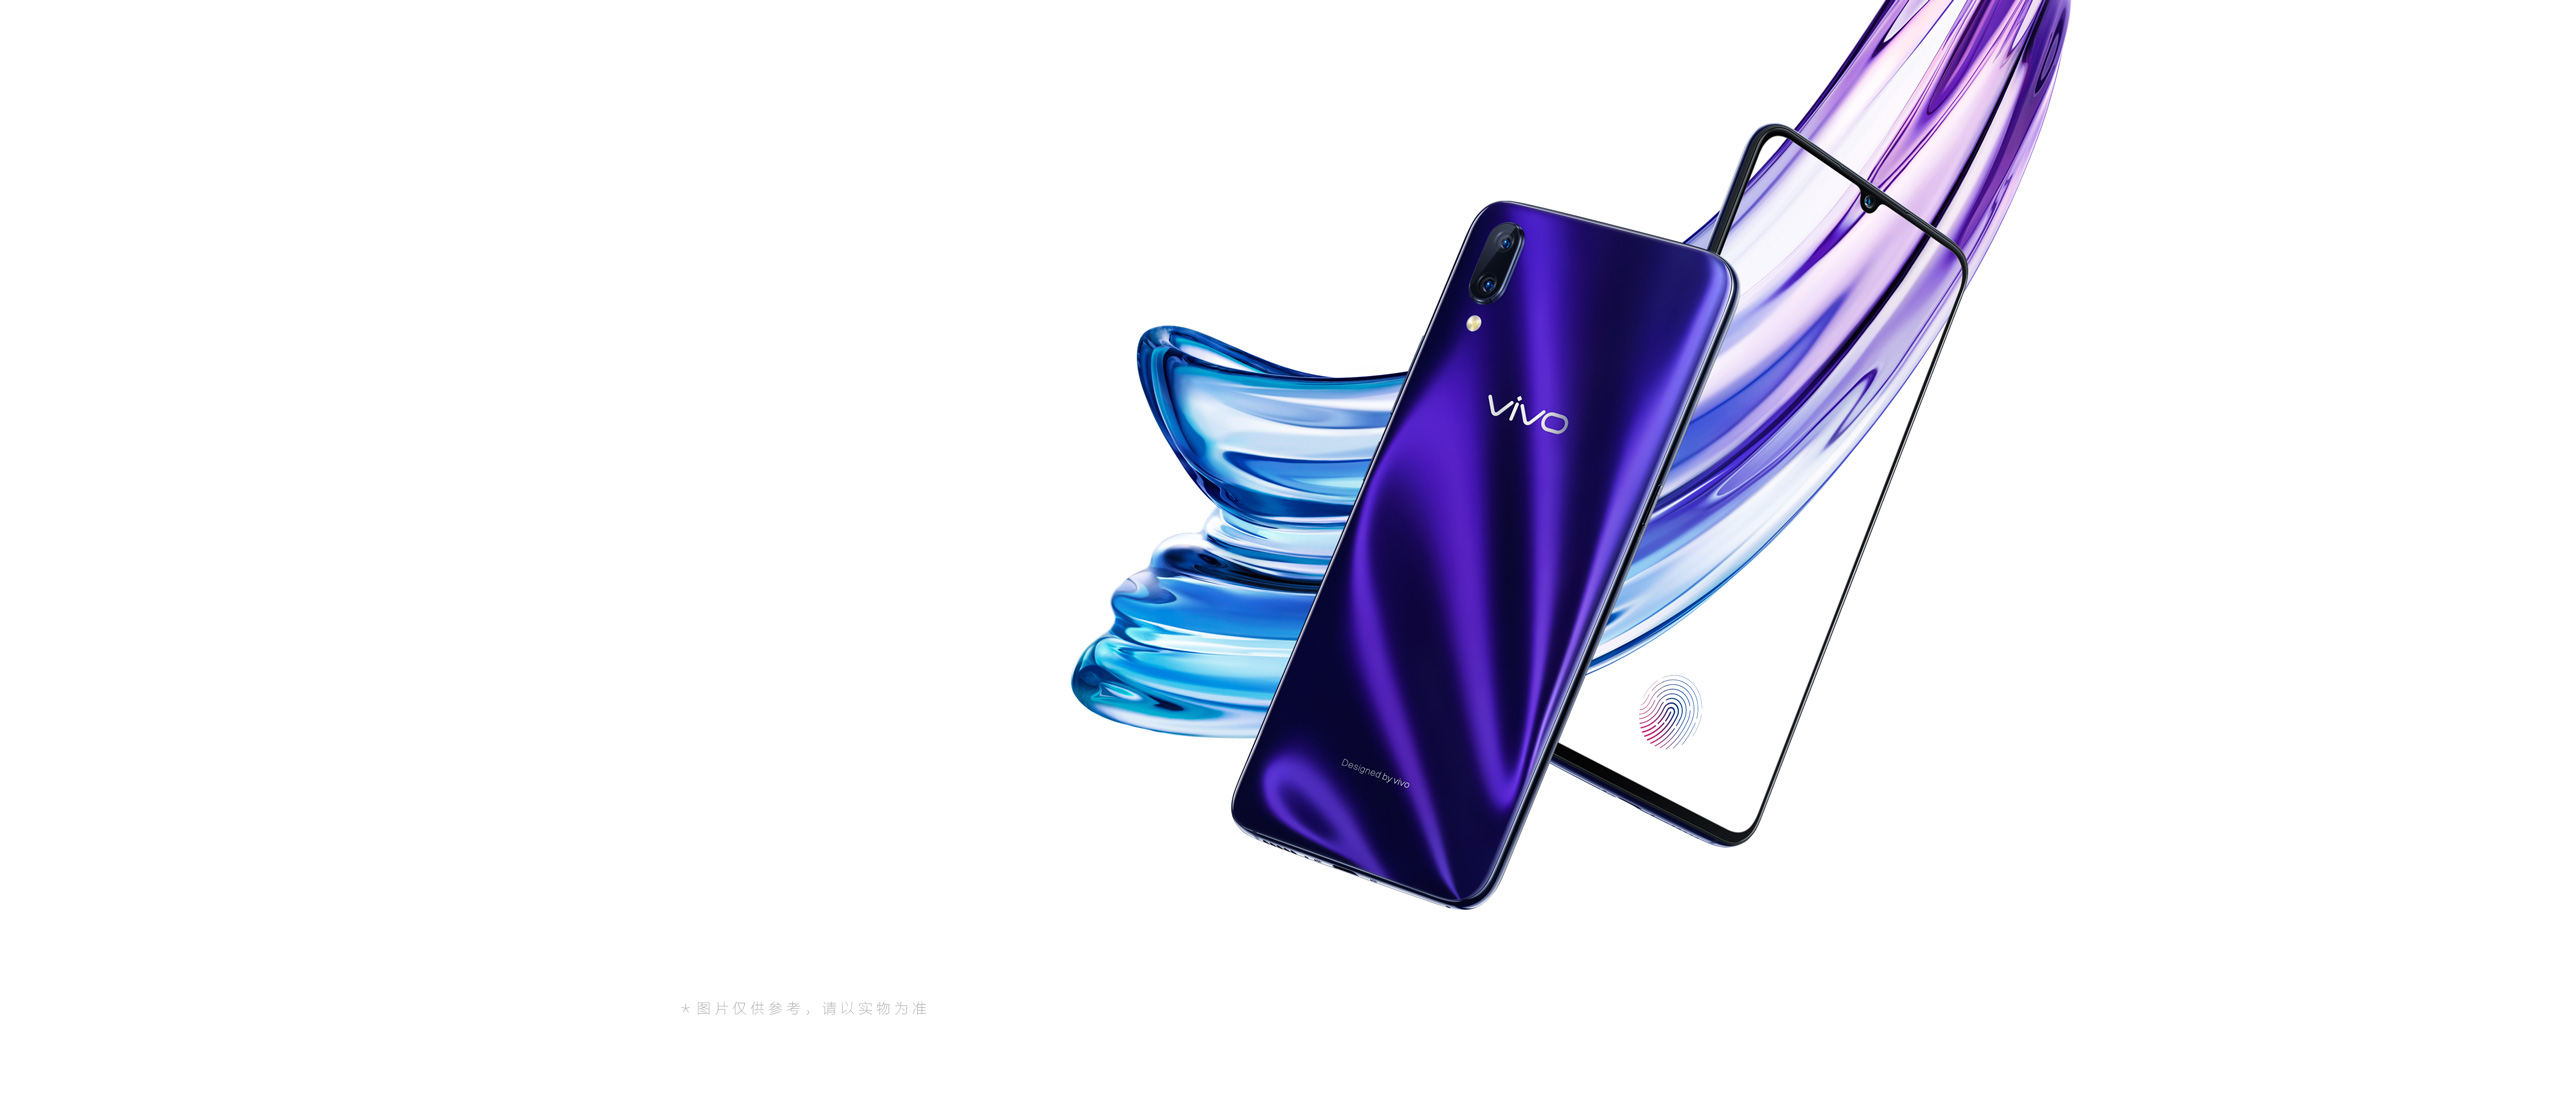
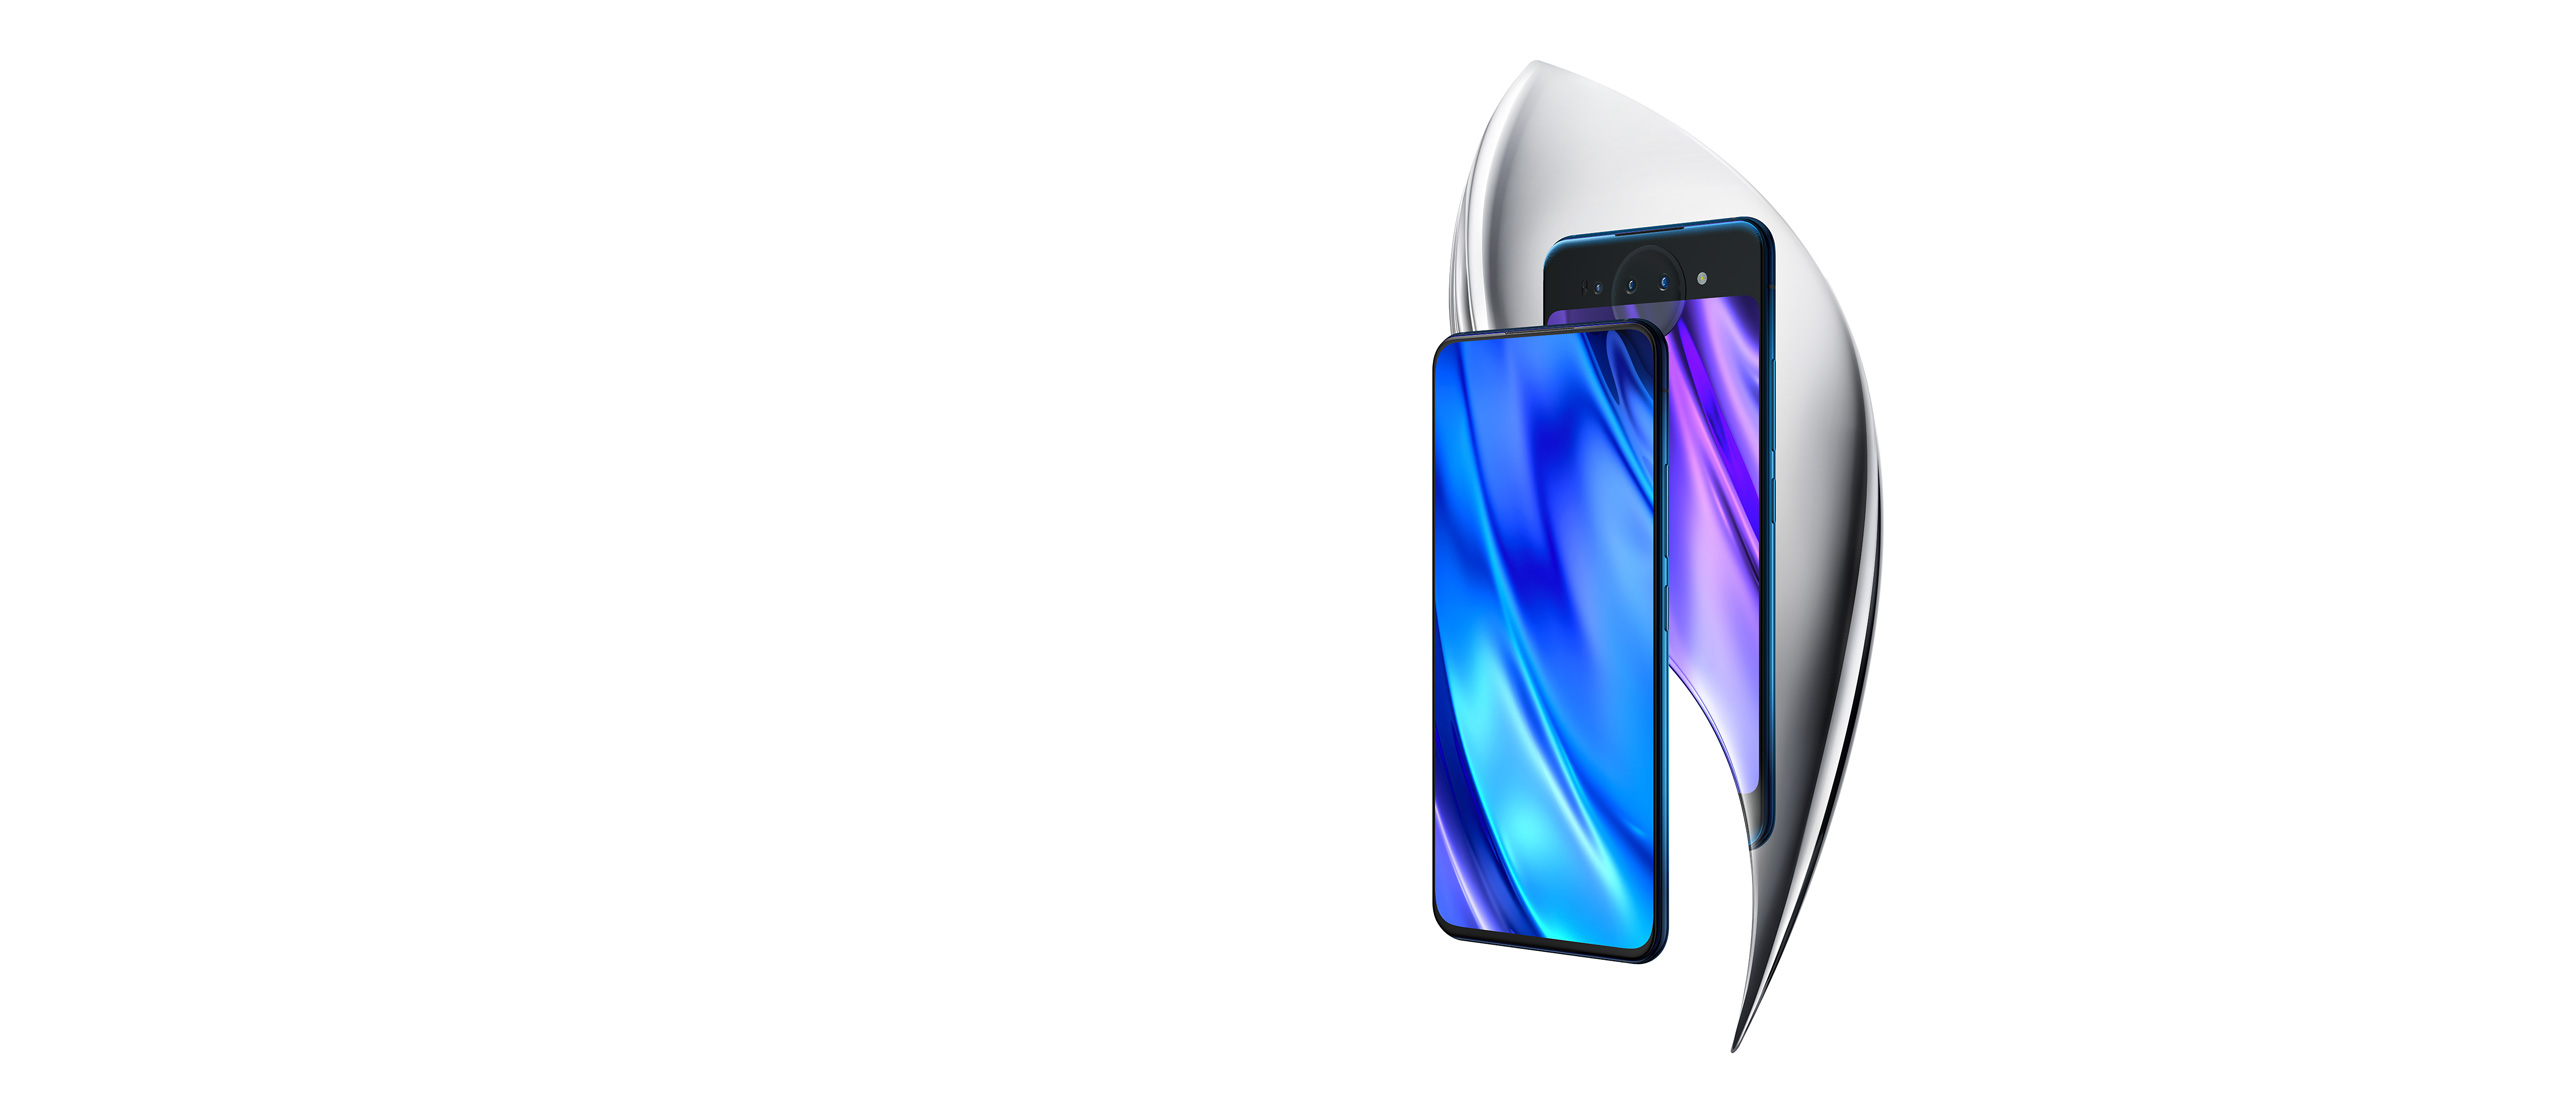
完成轮播所有特效

Changed region(s): [[0.4062, 0.0, 0.8125, 0.9582], [0.2812, 0.8964, 0.3125, 0.9273]]

diff --git a/app/static/js/home.js b/app/static/js/home.js
@@ -1,5 +1,4 @@
 var nex_active = function () {
-    return function () {
         var verTimeout = setTimeout(function () {
             $('.ver_nex').animate({'top':0,'opacity':1})
         },1200);
@@ -15,20 +14,16 @@ var nex_active = function () {
         var right_phone = setTimeout(function () {
             $('.phone_right').animate({'bottom':0,'opacity':1},'slow')
         },300)
-    }
 }
-nex_active()();
+nex_active();
 var nex_reset = function(){
-    return function () {
         $('.ver_nex').css({'top':-10,'opacity':0});
         $('.ai_nex').css({'top':40,'opacity':0});
         $('.cpu_nex').css({'top':90,'opacity':0});
         $('.phone_left').css({'top':-80,'opacity':0});
         $('.phone_right').css({'bottom':-80,'opacity':0});
-    }
 }
 var z3_active = function () {
-    return function () {
         var verTimeout = setTimeout(function () {
             $('.z3').animate({'top':0,'opacity':1})
         },1200);
@@ -38,15 +33,45 @@ var z3_active = function () {
         var cpuTimeout = setTimeout(function () {
             $('.cpu_z3').animate({'top':100,'opacity':1})
         },800);
-    }
 }
 var z3_reset = function(){
-    return function () {
         $('.z3').css({'top':-10,'opacity':0});
         $('.performance').css({'top':40,'opacity':0});
         $('.cpu_z3').css({'top':90,'opacity':0});
-    }
 }
+var x23_active = function () {
+    var verTimeout = setTimeout(function () {
+        $('.x23_adver').animate({'top':0,'opacity':1})
+    },1200);
+    var aiTimeout = setTimeout(function () {
+        $('.x23').animate({'top':50,'opacity':1})
+    },1000);
+    var cpuTimeout = setTimeout(function () {
+        $('.x23_special').animate({'top':100,'opacity':1})
+    },800);
+}
+var x23_reset = function(){
+    $('.x23_adver').css({'top':-10,'opacity':0});
+    $('.x23').css({'top':40,'opacity':0});
+    $('.x23_special').css({'top':90,'opacity':0});
+}
+var dbnex_active = function () {
+    var verTimeout = setTimeout(function () {
+        $('.nex_BIG_LOGO').animate({'top':0,'opacity':1})
+    },1200);
+    var aiTimeout = setTimeout(function () {
+        $('.dobule_screen').animate({'top':50,'opacity':1})
+    },1000);
+    var cpuTimeout = setTimeout(function () {
+        $('.db_specila').animate({'top':100,'opacity':1})
+    },800);
+}
+var dbnex_reset = function(){
+    $('.nex_BIG_LOGO').css({'top':-10,'opacity':0});
+    $('.dobule_screen').css({'top':57,'opacity':0});
+    $('.db_specila').css({'top':90,'opacity':0});
+}
+
 
 $(function () {
     var which = 0;
@@ -61,17 +86,25 @@ $(function () {
         $('.banner .btn_list li').eq(which).addClass('choose');
         $('.img_list').eq(which).animate({'opacity':1,'z-index':9});
         if (which == 0){
-            nex_active()();
-            z3_reset()();
+            nex_active();
+            z3_reset();
+            x23_reset();
+            dbnex_reset();
         }else if (which == 1){
-            z3_active()();
-            nex_reset()();
+            z3_active();
+            nex_reset();
+            x23_reset();
+            dbnex_reset();
         }else if (which == 2){
-            nex_reset()();
-            z3_reset()();
+            x23_active();
+            nex_reset();
+            z3_reset();
+            dbnex_reset();
         }else if (which == 3){
-            nex_reset()();
-            z3_reset()();
+            dbnex_active();
+            nex_reset();
+            z3_reset();
+            x23_reset();
         }
     }
     function autoPlay() {
@@ -85,5 +118,5 @@ $(function () {
     }
     var start = setInterval(function () {
         autoPlay();
-    },5000)
+    },4000)
 }())

diff --git a/app/static/css/home.css b/app/static/css/home.css
@@ -94,14 +94,14 @@
     bottom: -80px;
     opacity: 0;
 }
-
 /*--------------------Z3--------------------*/
 .z3_property{
     position: absolute;
-    width: 232px;
-    height: 150px;
+    width: 280px;
+    height: 200px;
     top: 200px;
     right: 360px;
+    overflow: hidden;
 }
 .z3{
     width: 278px;
@@ -129,6 +129,81 @@
     background-size: cover;
     position: absolute;
     top: 90px;
+    opacity: 0;
+}
+/*--------------------x23--------------------*/
+.x23_property{
+    position: absolute;
+    width: 280px;
+    height: 200px;
+    overflow: hidden;
+    top: 246px;
+    right: 114px;
+}
+.x23_adver{
+    width: 278px;
+    height: 44px;
+    background: url("../img/index/adver_big.png") center no-repeat;
+    background-size: cover;
+    position: absolute;
+    top: -10px;
+    opacity: 1;
+}
+.x23{
+    width: 316px;
+    height: 46px;
+    background: url("../img/index/x23_big.png") center no-repeat;
+    background-size: cover;
+    position: absolute;
+    top: 40px;
+    left: -13px;
+    opacity: 1;
+}
+.x23_special{
+    width: 282px;
+    height: 32px;
+    background: url("../img/index/special_big.png") center no-repeat;
+    background-size: cover;
+    position: absolute;
+    top: 90px;
+    opacity: 1;
+}
+/*--------------------dobule_nex--------------------*/
+.dobule_nex{
+    position: absolute;
+    width: 280px;
+    height: 200px;
+    overflow: hidden;
+    top: 266px;
+    left: 200px;
+}
+.nex_BIG_LOGO{
+    width: 336px;
+    height: 65px;
+    background: url("../img/index/NEX_BIG_LOGO.jpg") center no-repeat;
+    background-size: cover;
+    position: absolute;
+    top: -10px;
+    opacity: 0;
+    left: -28px;
+}
+.dobule_screen{
+    width: 316px;
+    height: 51px;
+    background: url("../img/index/dobule_screen.jpg") center no-repeat;
+    background-size: contain;
+    position: absolute;
+    top: 40px;
+    left: -13px;
+    opacity: 0;
+}
+.db_specila{
+    width: 284px;
+    height: 39px;
+    background: url("../img/index/db_specila.jpg") center no-repeat;
+    background-size: cover;
+    position: absolute;
+    top: 75px;
     opacity: 0;
 }
 

diff --git a/app/VIVO-index.html b/app/VIVO-index.html
@@ -189,14 +189,23 @@
                 </li>
                 <li class="img_list" style="opacity: 0">
                     <div class="banner_content content">
-                        <div class="z3_property">
-                            <div class="z3"></div>
-                            <div class="performance"></div>
-                            <div class="cpu_z3"></div>
+                        <div class="x23_property">
+                            <div class="x23_adver"></div>
+                            <div class="x23"></div>
+                            <div class="x23_special"></div>
                         </div>
                     </div>
                 </li>
-                <li class="img_list" style="opacity: 0"></li>
+
+                <li class="img_list" style="opacity: 0">
+                    <div class="banner_content content">
+                        <div class="dobule_nex">
+                            <div class="nex_BIG_LOGO"></div>
+                            <div class="dobule_screen"></div>
+                            <div class="db_specila"></div>
+                        </div>
+                    </div>
+                </li>
             </ul>
             <ul class="btn_list">
                 <li class="choose"></li>
